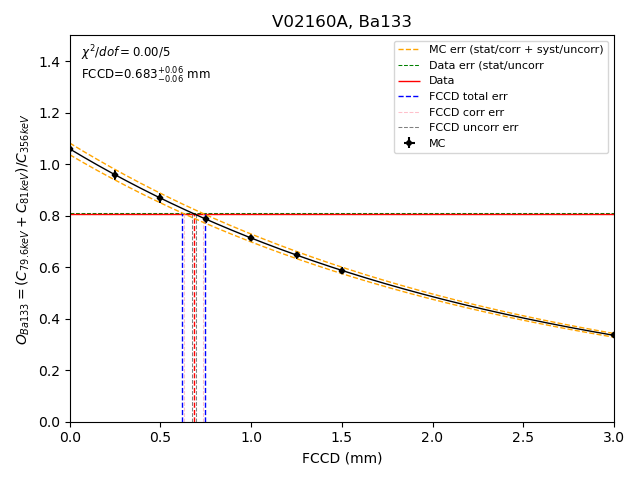
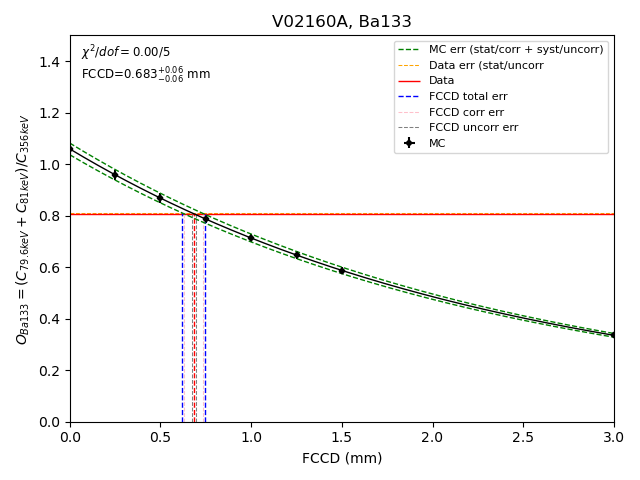
updates

diff --git a/src/compareResults.py b/src/compareResults.py
@@ -1,0 +1,172 @@
+import json
+import os
+import matplotlib.pyplot as plt
+import matplotlib.colors as mc
+import numpy as np
+
+class Vividict(dict):
+    def __missing__(self, key):
+        value = self[key] = type(self)()
+        return value
+
+
+def collateFCCDs(order_list, source, energy_filter="cuspEmax_ctc", cuts=True, smear="g", frac_FCCDbore=0.5):
+    """
+    Collate all FCCDs and errors into single dict and save to json file
+    args: 
+        - order_list
+        - source ("Ba133", "Am241_HS1")
+    """
+
+    CodePath=os.path.dirname(os.path.realpath(__file__))
+
+    #fixed
+    DLF=1.0
+    TL_model="notl"
+
+    dict_all = Vividict()
+
+    if source == "Ba133":
+        source_data = "ba_HS4" #convert source name into correct nomenclature
+    elif source == "Am241_HS1":
+        source_data = "am_HS1"
+    elif source == "Am241_HS6":
+        source_data = "am_HS6"
+
+    #Get detector list
+    detector_list = CodePath+"/../detector_list.json"
+    with open(detector_list) as json_file:
+        detector_list_data = json.load(json_file)
+
+    #Iterate through detectors in each order
+    for order in order_list:
+        detectors = detector_list_data["order_"+str(order)]["detectors"]
+        runs = detector_list_data["order_"+str(order)]["runs"][source]
+        MC_source_positions = detector_list_data["order_"+str(order)]["MC_source_positions"][source]
+        for ind, detector in enumerate(detectors):
+            run = runs[ind]
+            MC_source_position = MC_source_positions[ind] #=["top","0r","78z"]
+            MC_source_pos_hyphon = MC_source_position[0]+"-"+ MC_source_position[1]+"-"+MC_source_position[2] #="top-0r-78z"
+
+            if cuts == False:
+                with open(CodePath+"/../results/FCCD/"+detector+"/"+source+"/FCCD_"+detector+"-"+source_data+"-"+MC_source_pos_hyphon+"_"+smear+"_"+TL_model+"_fracFCCDbore"+str(frac_FCCDbore)+"_"+energy_filter+"_run"+str(run)+"_nocuts.json") as json_file:
+                    FCCD_data = json.load(json_file)
+            else: #4sigma cuts default
+                with open(CodePath+"/../results/FCCD/"+detector+"/"+source+"/FCCD_"+detector+"-"+source_data+"-"+MC_source_pos_hyphon+"_"+smear+"_"+TL_model+"_fracFCCDbore"+str(frac_FCCDbore)+"_"+energy_filter+"_run"+str(run)+"_cuts.json") as json_file:
+                    FCCD_data = json.load(json_file)
+            FCCD = FCCD_data["FCCD"]
+            FCCD_err_total_up = FCCD_data["FCCD_err_total_up"]
+            FCCD_err_total_low = FCCD_data["FCCD_err_total_low"]
+            FCCD_err_corr_up = FCCD_data["FCCD_err_corr_up"]
+            FCCD_err_corr_low = FCCD_data["FCCD_err_corr_low"]
+            FCCD_err_uncorr_up = FCCD_data["FCCD_err_uncorr_up"]
+            FCCD_err_uncorr_low = FCCD_data["FCCD_err_uncorr_low"]
+
+            dict = {"FCCD": FCCD, 
+            "FCCD_err_total_up": FCCD_err_total_up,
+            "FCCD_err_total_low": FCCD_err_total_low,
+            "FCCD_err_corr_up": FCCD_err_corr_up, 
+            "FCCD_err_corr_low": FCCD_err_corr_low,  
+            "FCCD_err_uncorr_up":FCCD_err_uncorr_up,
+            "FCCD_err_uncorr_low": FCCD_err_uncorr_low
+            }
+            dict_round2dp = {"FCCD": round(FCCD,2), 
+            "FCCD_err_total_up": round(FCCD_err_total_up,2),
+            "FCCD_err_total_low": round(FCCD_err_total_low,2),
+            "FCCD_err_corr_up": round(FCCD_err_corr_up,2), 
+            "FCCD_err_corr_low": round(FCCD_err_corr_low,2),  
+            "FCCD_err_uncorr_up":round(FCCD_err_uncorr_up,2),
+            "FCCD_err_uncorr_low": round(FCCD_err_uncorr_low,2)
+            }
+        
+            dict_det = {"unrounded": dict, "rounded": dict_round2dp}
+            dict_all[detector]=dict_det
+    
+
+    with open(CodePath+"/../FCCDvalues_"+source+".json", "w") as outfile:
+        json.dump(dict_all, outfile, indent=4)
+    
+    return dict_all
+
+
+def plotFCCDs(order_list,source_list):
+    """
+    Plot all FCCDs for a given order_list and source_list
+    """
+
+    CodePath=os.path.dirname(os.path.realpath(__file__))
+
+    #Get detector list
+    detector_list = CodePath+"/../detector_list.json"
+    with open(detector_list) as json_file:
+        detector_list_data = json.load(json_file)
+
+    fig, ax = plt.subplots(figsize=(12,8))
+    colors_orders = {2:'darkviolet', 4:'deepskyblue', 5:'orangered', 7:'green', 8:'gold', 9:'magenta'}
+    markers_sources = {"Ba133": "o", "Am241_HS1":"^"} #abi plot
+
+    detectors_all = []
+    orders_all = []
+
+    for order in order_list:
+
+        for source in source_list:
+
+            json_path = CodePath+"/../FCCDvalues_"+source+".json"
+            with open(json_path) as json_file:
+                FCCDs_json = json.load(json_file)
+            detectors = detector_list_data["order_"+str(order)]["detectors"]
+
+            FCCDs_source = []
+            FCCD_err_ups_source = []
+            FCCD_err_lows_source = []
+
+            detectors_source = []
+
+            for detector in detectors:
+
+                detectors_all.append(detector)
+                orders_all.append(order)
+
+                try:
+                    FCCD_source, FCCD_err_up_source, FCCD_err_low_source = FCCDs_json[detector]["rounded"]["FCCD"], FCCDs_json[detector]["rounded"]["FCCD_err_total_up"], FCCDs_json[detector]["rounded"]["FCCD_err_total_low"] 
+                    FCCDs_source.append(FCCD_source)
+                    FCCD_err_ups_source.append(FCCD_err_up_source)
+                    FCCD_err_lows_source.append(FCCD_err_low_source)
+                    detectors_source.append(detector)
+                except:
+                    print("no ",source," analysis for ", detector)
+
+            cc = colors_orders[order]
+
+            ax.errorbar(detectors_source,FCCDs_source, yerr = [FCCD_err_lows_source, FCCD_err_ups_source], marker = markers_sources[source], color=cc, linestyle = '-')
+            
+    for order in colors_orders:
+        color = colors_orders[order]
+        ax.plot(np.NaN, np.NaN, c=color, label=f'Order #'+str(order))
+
+    ax2 = ax.twinx()
+    for source in markers_sources:
+        marker = markers_sources[source]
+        if source in source_list:
+            ax2.plot(np.NaN, np.NaN, marker=marker,c='grey',label=source)
+    ax2.get_yaxis().set_visible(False)
+
+    ax.legend(loc='upper left', bbox_to_anchor=(0, 1), fontsize=10)
+    ax2.legend(loc='upper left', bbox_to_anchor=(0, 0.77), fontsize=10)
+
+    ax.tick_params(axis='x', labelrotation=45)
+    ax.set_xlabel('Detector', fontsize=11)
+    ax.set_ylabel('FCCD (mm)', fontsize=11)
+    ax.grid(linestyle='dashed', linewidth=0.5)
+    plt.tight_layout()
+    ax.set_ylim(0,2)
+    ax.set_title("FCCDs", fontsize=12)
+    plt.savefig(CodePath+"/../FCCDs.png", bbox_inches='tight') 
+    plt.show()
+
+            
+
+
+
+

diff --git a/processDetectors.py b/processDetectors.py
@@ -19,16 +19,16 @@ def main():
     # EDIT PROCESSING CONFIG BELOW
     #====================================================
     order_list = [4] #List of orders to process
+    source = "Ba133" #"Ba133", "Am241_HS1" or "Am241_HS6"
     energy_filter="cuspEmax_ctc"
     cuts=True
-    source = "Ba133" #"Ba133", "Am241_HS1" or "Am241_HS6"
     #-----------------------------------------------------
-    Calibrate_Data = True  #Pre-reqs: needs dsp pygama data
-    Gamma_line_count_data = True #Pre-reqs: needs calibration
-    Gamma_line_count_MC = True #Pre-reqs: needs AV post processed MC for range of FCCDs
-    Calculate_FCCD = True #Pre-reqs: needs gammaline counts for data and MC
-    Gamma_line_count_MC_bestfitFCCD = False #Pre-reqs: needs AV postprocessed MC for best fit FCCD
-    PlotSpectra = False #Pre-reqs: needs all above stages
+    Calibrate_Data = False  #Pre-reqs: needs dsp pygama data
+    Gamma_line_count_data = False #Pre-reqs: needs calibration
+    Gamma_line_count_MC = False #Pre-reqs: needs AV post processed MC for range of FCCDs
+    Calculate_FCCD = False #Pre-reqs: needs gammaline counts for data and MC
+    Gamma_line_count_MC_bestfitFCCD = True #Pre-reqs: needs AV postprocessed MC for best fit FCCD
+    PlotSpectra = True #Pre-reqs: needs all above stages
     #====================================================
 
     if source == "Ba133":
@@ -55,7 +55,7 @@ def main():
 
         for ind, detector in enumerate(detectors):
 
-            # if detector != "V02166B":
+            # if detector == "V04199A" or detector == "V04545A" or detector == "V04549A":
             #     continue
             print("")
             print("detector: ", detector)

diff --git a/src/FCCD.py b/src/FCCD.py
@@ -162,7 +162,7 @@ def calculateFCCD(detector, source, MC_id, smear, TL_model, frac_FCCDbore, energ
     countRatio_data_err = PeakCounts["countRatio_err"] #stat error on data
 
     #========= PLOTTING ===========
-    plot_colors = {"MC":"black", "MC_fit": "black", "data": "red", "data_err_stat": "green", "MC_err_stat": "green", "MC_err_syst": "pink", "MC_err_total": "orange", "FCCD": "red", "FCCD_err_total": "blue", "FCCD_err_MCstatsyst": "red", "FCCD_err_MCstat": "purple", "FCCD_err_MCsyst": "pink", "FCCD_err_datastat": "green", "FCCD_err_statMCstatdata": "grey"}
+    plot_colors = {"MC":"black", "MC_fit": "black", "data": "red", "data_err_stat": "orange", "MC_err_stat": "green", "MC_err_syst": "pink", "MC_err_total": "green", "FCCD": "red", "FCCD_err_total": "blue", "FCCD_err_MCstatsyst": "red", "FCCD_err_MCstat": "purple", "FCCD_err_MCsyst": "pink", "FCCD_err_datastat": "green", "FCCD_err_statMCstatdata": "grey"}
     linewidth_err = 0.75
     linewidth_main = 1.0
     

diff --git a/src/GammaLineCounting.py b/src/GammaLineCounting.py
@@ -159,8 +159,10 @@ def perform_gammaLineCounting(detector, source, spectra_type, data_path=None, ca
     
     global R_doublePeak
     if source == "Ba133":
-        # peak_ranges = [[77,84],[352, 359.5],[158,163],[221,225.5],[274,279],[300,306],[381,386.5]] #Rough by eye
-        peak_ranges = [[77,84],[352.5, 359],[158,163],[221,225.5],[274,279],[300,306],[381,386.5]] #Rough by eye
+        if spectra_type == "MC":
+            peak_ranges = [[77,84],[352, 359.5],[158,163],[221,225.5],[274,279],[300,306],[381,386.5]] #Rough by eye
+        else:
+            peak_ranges = [[77,84],[352.5, 359],[158,163],[221,225.5],[274,279],[300,306],[381,386.5]] #Rough by eye
         peaks = [81, 356, 161, 223, 276, 303, 383]
         R_doublePeak = 2.65/32.9 #intensity ratio for Ba-133 double peak
     if source == "Am241_HS1" or source == "Am241_HS6":

diff --git a/compareFCCDs.py b/compareFCCDs.py
@@ -1,0 +1,23 @@
+from src.calibration import *
+from src.compareResults import *
+
+def main():
+
+    #====================================================
+    # Collate FCCDs into JSON file
+    #====================================================
+    order_list = [2,4] #List of orders to process
+    source = "Ba133" #"Ba133", "Am241_HS1" or "Am241_HS6"
+    FCCDs_Ba133 = collateFCCDs(order_list, source)
+
+    #====================================================
+    # Plot FCCDs
+    #====================================================
+    order_list = [2,4]
+    source_list = ["Ba133"]
+    plotFCCDs(order_list, source_list)
+     
+
+
+if __name__ == "__main__":
+    main()

diff --git a/src/calibration.py b/src/calibration.py
@@ -208,7 +208,7 @@ def perform_calibration(detector, source, data_path, energy_filter, cuts, run):
         ax1.plot(fwhm_peaks,fit_vals,lw=1, c='g')
         ax1.set_ylabel("FWHM (keV)", ha='right', y=1)
 
-        ax2.plot(fitted_peaks,pgp.poly(mus, pars)-fitted_peaks, lw=1, c='b')
+        ax2.plot(fitted_peaks,pgp.poly(mus, pars)-fitted_peaks, marker='o', lw=1, c='b')
         ax2.set_xlabel("Energy (keV)",    ha='right', x=1)
         ax2.set_ylabel("Residuals (keV)", ha='right', y=1)
 
